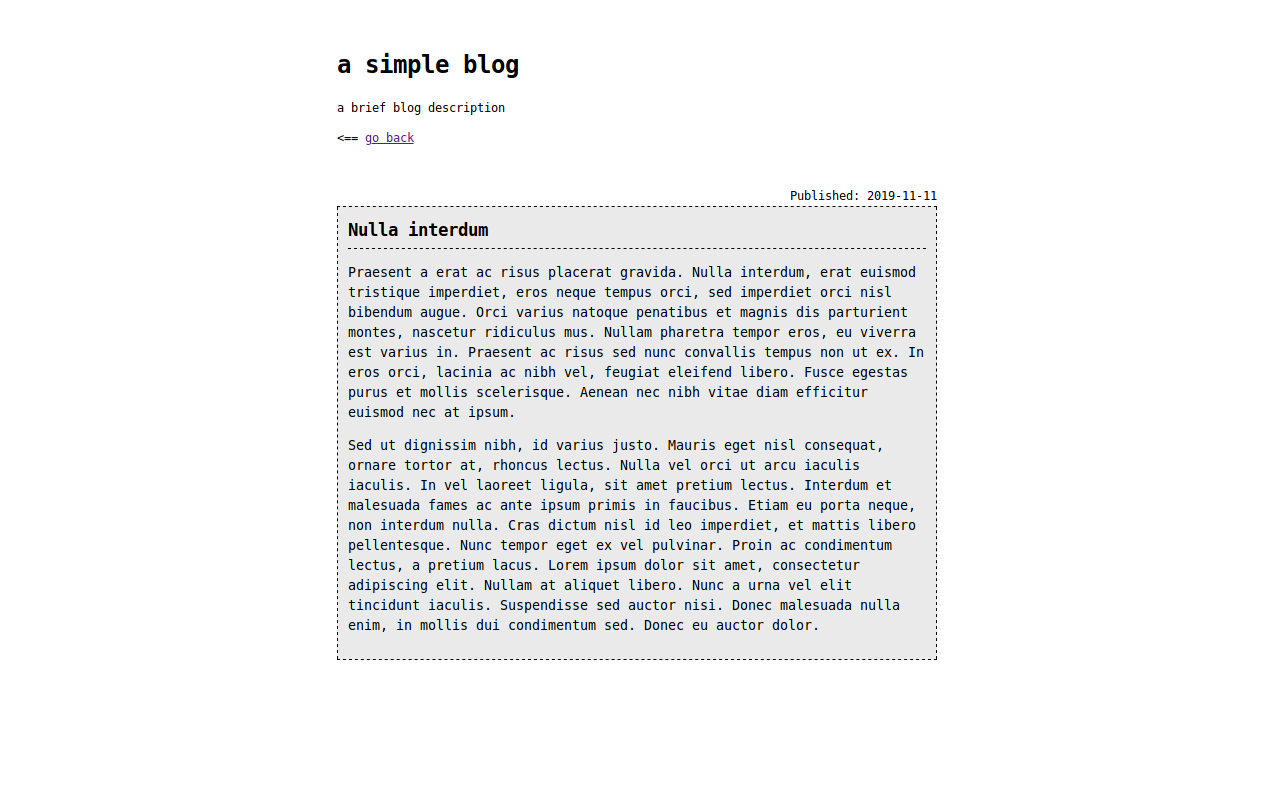
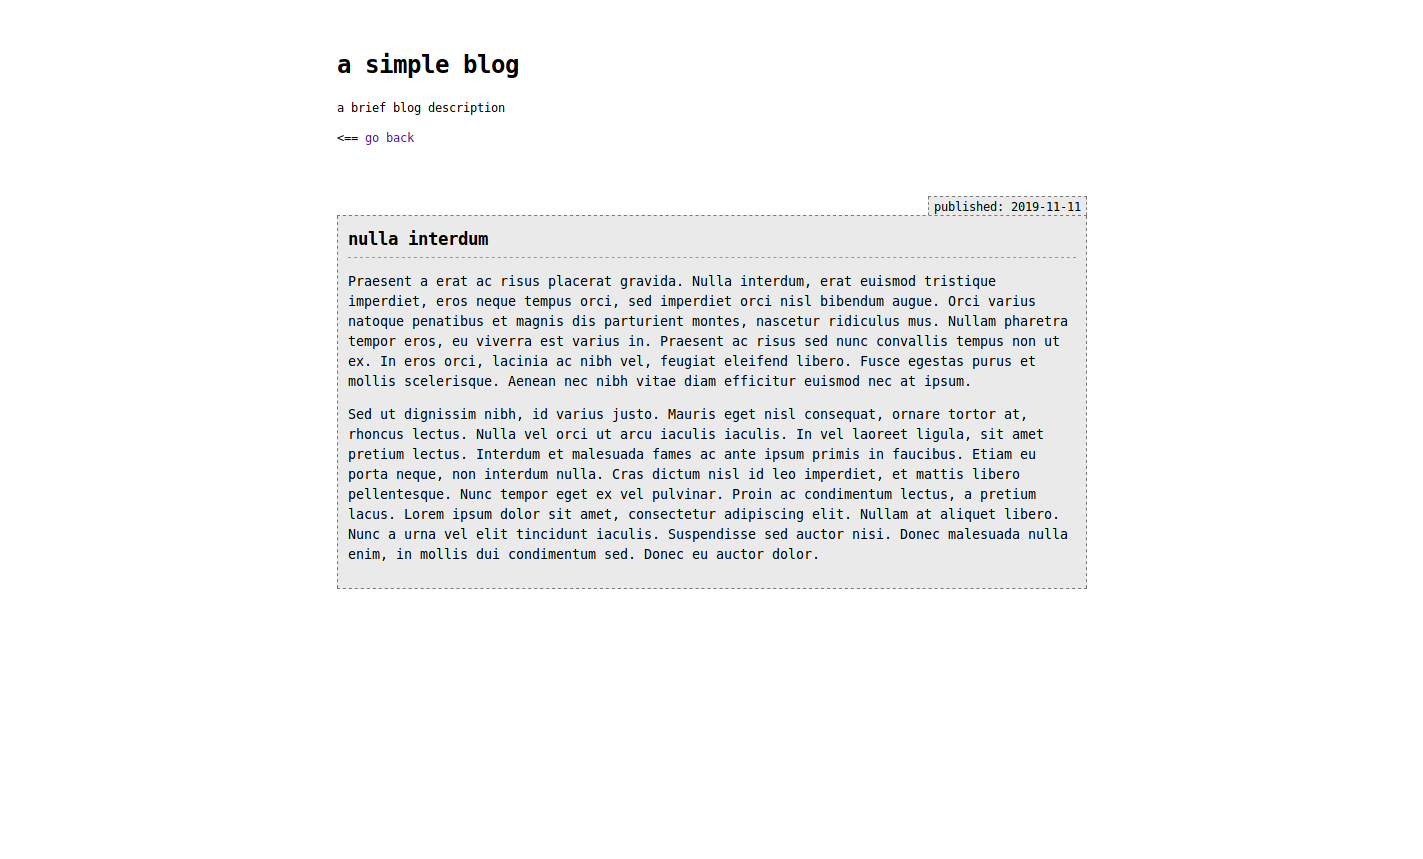
Add toc.php and some features
add max articles in homepage
add toc.php with all articles in a list
update screenshot folder with new images

diff --git a/src/style.css b/src/style.css
@@ -1,29 +1,53 @@
 body {
-	max-width: 600px;
+	max-width: 750px;
 	width: calc(100% - 30px);
 	margin: 0 auto;
 	padding: 30px 15px;
 	line-height: 1.5;
 	font-family: monospace;
+	color: #000000;
+	background-color: #ffffff;
 }
 
 header {
 	margin-bottom: 40px;
 }
 
+a {
+	text-decoration: none;
+}
+
+a:hover {
+	text-decoration: underline;
+}
+
+.article {
+	width: 100%;
+	padding: 10px 0;
+	float: left;
+}
+
 .content {
-	margin: 0 0 30px 0;
-	border: 1px dashed black;
+	width: calc(100% - 20px - 2px);
+	margin: 0 0 50px 0;
+	border: 1px dashed #777777;
 	padding: 10px;
 	background-color: #eaeaea;
 	font-size: 10pt;
+	display: block;
+	float: left;
 }
 
 .entry-url {
-	display: block;
+	display: inline-block;
 	font-family: monospace;
-	text-align: right;
-	margin-bottom: 2px;
+	float: right;
+	background-color: #eaeaea;
+	border-top: 1px dashed #777777;
+	border-left: 1px dashed #777777;
+	border-right: 1px dashed #777777;
+	padding: 0 5px;
+
 }
 
 .standalone-link {
@@ -43,7 +67,7 @@ header {
 
 .content h2 {
 	margin: 0 0 10px 0;
-	border-bottom: 1px dashed black;
+	border-bottom: 1px dashed #999999;
 	padding-bottom: 5px;
 	font-size: 13pt;
 }
@@ -65,4 +89,17 @@ header {
 	color: #555555;
 	margin-bottom: 20px;
 	display: block;
+}
+
+#toc_message {
+	font-weight: bold;
+}
+
+#table-of-contents {
+	margin-bottom: 50px;
+	width: 100%;
+	float: left;
+}
+
+.toc-entry {
 }

diff --git a/src/source/201911111205.html b/src/source/201911111205.html
@@ -1,4 +1,4 @@
-<h2>Nulla interdum</h2>
+<h2>nulla interdum</h2>
 
 <p>
 Praesent a erat ac risus placerat gravida. Nulla interdum, erat euismod tristique imperdiet, eros neque tempus orci, sed imperdiet orci nisl bibendum augue. Orci varius natoque penatibus et magnis dis parturient montes, nascetur ridiculus mus. Nullam pharetra tempor eros, eu viverra est varius in. Praesent ac risus sed nunc convallis tempus non ut ex. In eros orci, lacinia ac nibh vel, feugiat eleifend libero. Fusce egestas purus et mollis scelerisque. Aenean nec nibh vitae diam efficitur euismod nec at ipsum.

diff --git a/src/index.php b/src/index.php
@@ -15,9 +15,11 @@ include("info.php");
 <h1><?php echo $blog_title; ?></h1>
 <div id="blog-info">
 <?php echo "$blog_info\n"; ?>
+<p>[[ <a href="toc.php"><?php echo "$toc_link"; ?></a> ]]</p>
 </div>
 </header>
 <main>
+
 <?php
 // read all files in source folder
 $files = array();
@@ -31,9 +33,26 @@ while(false != ($file = readdir($dir))) {
 // reverse sort files (last article on top) - based on filename
 rsort($files);
 
-// read each file and print content
+// iterating articles files
+
+// reset max articles
+$max_articles = 0;
 foreach ($files as $file) {
+
+	// if $max_number_articles variable is not a number, use 10 as default
+	if (!is_numeric($max_number_articles)) {
+		$max_number_articles = 10;
+	}
+
+	// if there are more than 10 articles, stop iterating:
+	if (++$max_articles > $max_number_articles) break;
+
+	// read each file and print content
 	if ($file != "." && $file != "..") {
+
+		// print filename without the html extension for the article ID:
+		$filename = pathinfo("$file");
+		$filename = $filename['filename'];
 
 		// convert filename to date
 		$file_date = substr_replace($file, "-", 4, 0);
@@ -41,15 +60,22 @@ foreach ($files as $file) {
 		$file_date = substr($file_date, 0, -9);
 
 		// print file content to html
-		echo "<div id='$file'>\n";
-		echo "<span class='entry-url'>Published: <a href='#$file'>$file_date</a></span>\n";
-		echo "\n<div class='content'>\n";
-		echo "<a class='standalone-link' href='article.php?src=$file'>&#128279;</a>\n";
+		echo "<!-- ARTICLE -->\n";
+		echo "<div class='article' id='$filename'>\n";
+		echo "<span class='entry-url'>$published: $file_date</span>\n";
+		echo "<div class='content'>\n";
+		echo "<a class='standalone-link' href='article.php?id=$filename'>&#128279;</a>\n";
 		echo file_get_contents("source/$file");
 		echo "</div><!--content-->\n";
-		echo "</div>\n\n";
+		echo "</div><!--$filename-->\n\n";
 	}
 }
+
+// if there are more than 10 articles, show the next message:
+if ($max_articles > $max_number_articles) {
+	echo "<p id='toc_message'>[[ <a href='toc.php'>$toc_message</a>. ]]</p>";
+}
+
 ?>
 </main>
 </body>

diff --git a/src/toc.php b/src/toc.php
@@ -1,0 +1,80 @@
+<?php
+// filename: toc.php
+
+// include blog info
+include("info.php");
+
+?>
+<!DOCTYPE html>
+<html lang="<?php echo $lang; ?>">
+<head>
+<?php echo "$head_content\n"; ?>
+<title><?php echo "$blog_title - $toc_title"; ?></title>
+</head>
+<body>
+<header>
+<h1><?php echo $blog_title; ?></h1>
+<div id="blog-info">
+<?php echo "$blog_info\n"; ?>
+</div>
+	<p>&lt;== <a href="./"><?php echo $go_back; ?></a></p>
+</header>
+<main>
+
+<div id="table-of-contents">
+<h2><?php echo $toc_title; ?></h2>
+
+<ul>
+
+<?php
+// read all files in source folder
+$files = array();
+$dir = opendir('source');
+while(false != ($file = readdir($dir))) {
+	if(($file != ".") and ($file != "..") and ($file != "index.php")) {
+		$files[] = $file;
+	}
+}
+
+// reverse sort files (last article on top) - based on filename
+rsort($files);
+
+// read each file and print content
+foreach ($files as $file) {
+	if ($file != "." && $file != "..") {
+
+		// print filename without the html extension for the article ID:
+		$filename = pathinfo("$file");
+		$filename = $filename['filename'];
+
+		// convert filename to date
+		$file_date = substr_replace($file, "-", 4, 0);
+		$file_date = substr_replace($file_date, "-", 7, 0);
+		$file_date = substr($file_date, 0, -9);
+
+		// get the article title from <h2> tag
+		$file_content = file_get_contents("source/$file");
+		$pattern = preg_quote("<h2>", '/');
+		$pattern = "/^.*$pattern.*\$/m";
+		if (preg_match_all($pattern, $file_content, $matches)) {
+			$article_title = implode("\n", $matches[0]);
+			$article_title = substr($article_title, 4, -5);
+		} else {
+			$article_title = "[[untitled]]";
+		}
+
+		// print file content to html
+		echo "<li class='toc-entry'>";
+		echo "<span>$file_date : </span>";
+		echo "<a href='article.php?id=$filename'>$article_title</a>";
+		echo "</li>\n";
+	}
+}
+?>
+
+</ul>
+</div><!--table-of-contents-->
+
+</main>
+</body>
+</html>

diff --git a/src/article.php b/src/article.php
@@ -2,7 +2,10 @@
 // filename: article.php
 
 // get the file
-$file = $_GET["src"];
+$filename = $_GET["id"];
+
+// add the .html extension the file name:
+$file = "$filename.html";
 
 // get the article title from <h2> tag
 $file_content = file_get_contents("source/$file");
@@ -38,7 +41,7 @@ include("info.php");
 <div id="blog-info">
 <?php echo "$blog_info\n"; ?>
 </div>
-<p>&lt;== <a href="./">go back</a></p>
+	<p>&lt;== <a href="./"><?php echo $go_back; ?></a></p>
 </header>
 <main>
 <?php
@@ -50,9 +53,9 @@ include("info.php");
 		$file_date = substr($file_date, 0, -9);
 
 		// print file content to html
-		echo "<div id='$file'>\n";
-		echo "<span class='entry-url'>Published: $file_date</span>\n";
-		echo "\n<div class='content'>\n";
+		echo "<div class='article' id='$filename'>";
+		echo "<span class='entry-url'>$published: $file_date</span>";
+		echo "<div class='content'>";
 		echo file_get_contents("source/$file");
 		echo "</div><!--content-->\n";
 		echo "</div>\n";

diff --git a/src/info.php b/src/info.php
@@ -16,10 +16,20 @@ $meta_description = "a simple php blog";
 // head meta keywords
 $meta_keywords = "blog, php";
 
+// Max articles to show in the homepage
+$max_number_articles = "10";
+
 // blog info in html
 $blog_info = <<<HTML
 <p>a brief blog description</p>
 HTML;
+
+// translation
+$published = "published";
+$go_back = "go back";
+$toc_link = "view table of contents";
+$toc_title = "table of contents";
+$toc_message = "There all more articles. View all of them in the table of contents";
 
 // head
 $head_content = <<<EOF
